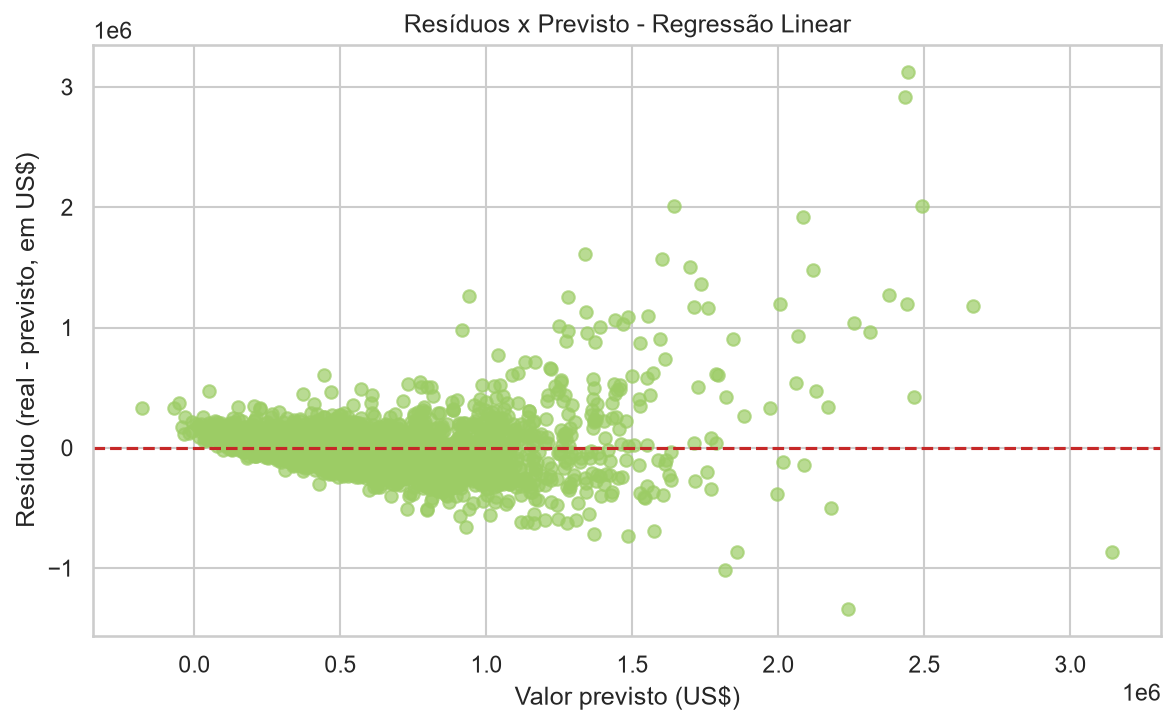
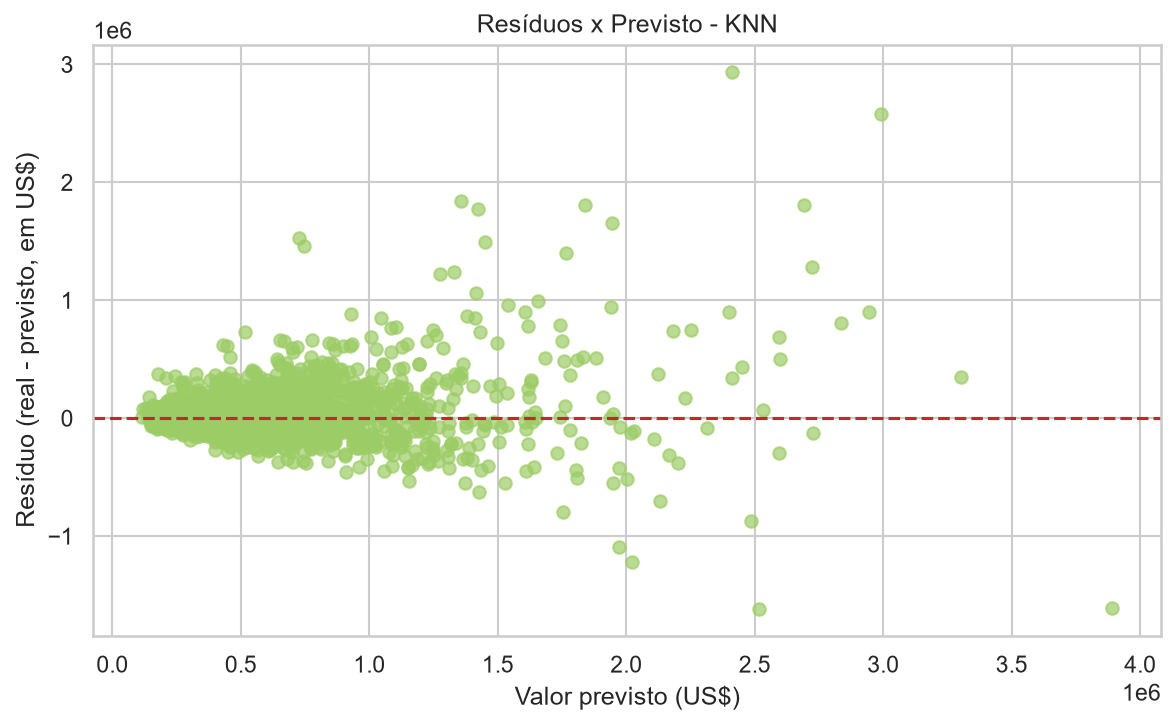
comparação de modelos

diff --git a/src/modeling/train.py b/src/modeling/train.py
@@ -3,11 +3,14 @@ Treino, avaliação e persistência de modelos de regressão (Fases 5 e 6).
 """
 import json
 import joblib
+from typing import Literal
+
 import numpy as np
 import pandas as pd
 from sklearn.linear_model import LinearRegression
-from sklearn.neighbors import KNeighborsRegressor
 from sklearn.metrics import mean_absolute_error, mean_squared_error, r2_score
+from sklearn.model_selection import GridSearchCV, cross_validate
+from sklearn.neighbors import KNeighborsRegressor
 
 from src.config import MODEL_DIR, MODEL_FILE, METRICS_FILE
 
@@ -19,17 +22,102 @@ def train_model(X_train: pd.DataFrame, y_train: pd.Series) -> LinearRegression:
     return model
 
 
+
+def cross_validate_knn(
+    X_train: pd.DataFrame,
+    y_train: pd.Series,
+    n_neighbors: int = 5,
+    weights: Literal["uniform", "distance"] = "uniform",
+    cv: int = 10,
+):
+    """Executa validação cruzada para o KNN e imprime um resumo estruturado."""
+    model = KNeighborsRegressor(
+        n_neighbors=n_neighbors,
+        weights=weights,
+    )
+
+    scores = cross_validate(
+        model,
+        X_train,
+        y_train,
+        cv=cv,
+        scoring=[
+            "r2",
+            "neg_mean_absolute_error",
+            "neg_root_mean_squared_error",
+        ],
+    )
+
+    summary = {
+        "R² médio": scores["test_r2"].mean(),
+        "MAE médio": -scores["test_neg_mean_absolute_error"].mean(),
+        "RMSE médio": -scores["test_neg_root_mean_squared_error"].mean(),
+    }
+
+    print("Resumo da validação cruzada do KNN:")
+    print(f"  - R² médio: {summary['R² médio']:.4f}")
+    print(f"  - MAE médio: {summary['MAE médio']:.4f}")
+    print(f"  - RMSE médio: {summary['RMSE médio']:.4f}")
+
+    return scores
+
 def train_knn_model(
     X_train: pd.DataFrame,
     y_train: pd.Series,
     n_neighbors: int = 5,
-    weights: str = "distance",
+    weights: Literal["uniform", "distance"] = "distance",
+    cv: int = 5,
+    grid_search: bool = True,
+    cross_validation: bool = True,
 ) -> KNeighborsRegressor:
-    """Treina um KNN Regressor para comparar com a regressão linear."""
+    """Treina um KNN Regressor com GridSearchCV e validação cruzada antes do fit final."""
     n_neighbors = max(1, min(int(n_neighbors), len(X_train)))
-    model = KNeighborsRegressor(n_neighbors=n_neighbors, weights=weights)
-    model.fit(X_train, y_train)
-    return model
+    base_model = KNeighborsRegressor(n_neighbors=n_neighbors, weights=weights)
+
+    if grid_search:
+        max_neighbors = max(1, min(31, len(X_train)))
+        param_grid = {
+            "n_neighbors": list(range(1, max_neighbors + 1)),
+            "weights": ["uniform", "distance"],
+        }
+
+        search = GridSearchCV(
+            estimator=base_model,
+            param_grid=param_grid,
+            scoring="neg_root_mean_squared_error",
+            cv=cv,
+            n_jobs=-1,
+            refit=True,
+        )
+        search.fit(X_train, y_train)
+        best_params = search.best_params_
+        print(f"Melhores hiperparâmetros do KNN: {best_params}")
+
+        if cross_validation:
+            print(f"Validação cruzada do KNN com {cv} folds:")
+            cross_validate_knn(
+                X_train,
+                y_train,
+                n_neighbors=best_params["n_neighbors"],
+                weights=best_params["weights"],
+                cv=cv,
+            )
+
+        return search.best_estimator_
+
+    base_model.fit(X_train, y_train)
+
+    if cross_validation:
+        print(f"Validação cruzada do KNN com {cv} folds:")
+        cross_validate_knn(
+            X_train,
+            y_train,
+            n_neighbors=n_neighbors,
+            weights=weights,
+            cv=cv,
+        )
+
+    return base_model
 
 
 def evaluate_model(model, X, y_true) -> dict: